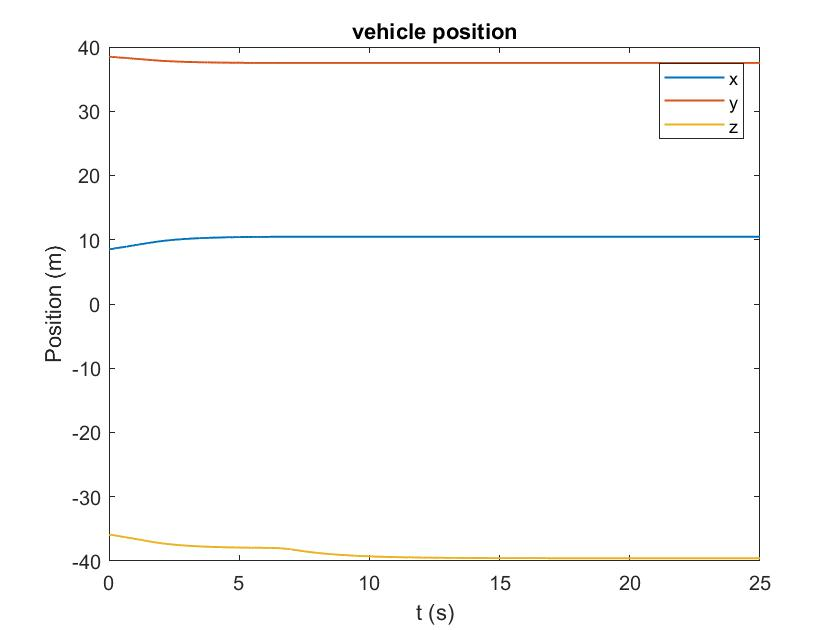
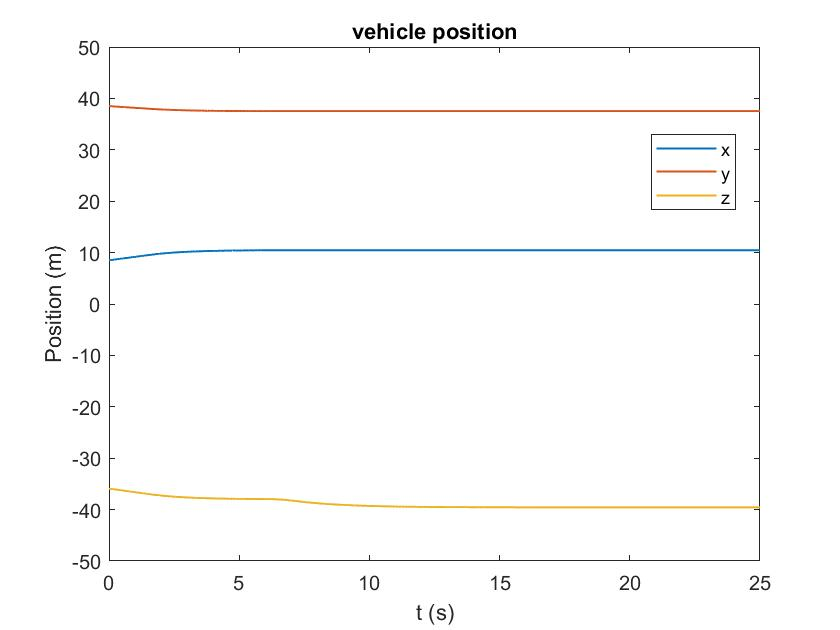
update altitutde saturate + plot 2B,2

diff --git a/esReport/es2B/PrintPlot.m b/esReport/es2B/PrintPlot.m
@@ -57,6 +57,7 @@ legend('x','y','z');
 title('vehicle position')
 xlabel('t (s)')
 ylabel('Position (m)')
+ylim([-50 50])
 
 figure(8);
 hplot = plot(plt.t, plt.a(10:11,:));
@@ -78,5 +79,13 @@ set(hplot, 'LineWidth', 1);
 legend('xdot', 'ydot','zdot');
 xlabel('t (s)')
 ylabel('velocity (m/2)')
+
+figure(10);
+hplot = plot(plt.t, plt.mission);
+set(hplot, 'LineWidth', 1);
+legend('mission');
+xlabel('t (s)')
+
+
 end
 

diff --git a/esReport/es2B/UpdateDataPlot.m b/esReport/es2B/UpdateDataPlot.m
@@ -1,4 +1,4 @@
-function [ plt ] = UpdateDataPlot( plt, uvms, t, loop )
+function [ plt ] = UpdateDataPlot( plt, uvms, t, loop, mission )
 
 % this function samples the variables contained in the structure uvms
 % and saves them in arrays inside the struct plt
@@ -32,4 +32,5 @@ plt.tooly(:,loop) = uvms.wTt(2,4);
 
 % altitutde
 plt.altitude(:,loop) = uvms.w_distance;
+plt.mission(:,loop) = mission.phase;
 end

diff --git a/esReport/es2/ComputeTaskReferences.m b/esReport/es2/ComputeTaskReferences.m
@@ -20,7 +20,7 @@ uvms.xdot.vehicleAtt(1:3,:) = Saturate(0.2 * w_vang, 0.2);
 threshold = 10;
 range = 0.5;
 %reference for altittude task 1 m
-uvms.xdot.vehicleAlt = 1 * ((threshold + range) - uvms.w_distance);
+uvms.xdot.vehicleAlt = Saturate(0.7 * ((threshold + range) - uvms.w_distance),0.7);
 
 %reference for landing action 
 uvms.xdot.vehicleAltLanding = Saturate(0.5 * (0 - uvms.w_distance), 0.5);

diff --git a/esReport/es2B/ComputeTaskReferences.m b/esReport/es2B/ComputeTaskReferences.m
@@ -20,7 +20,7 @@ uvms.xdot.vehicleAtt(1:3,:) = Saturate(0.2 * w_vang, 0.2);
 threshold = 1;
 range = 0.5;
 %reference for altittude task 1 m
-uvms.xdot.vehicleAlt = 1 * ((threshold + range) - uvms.w_distance);
+uvms.xdot.vehicleAlt = Saturate(0.7 * ((threshold + range) - uvms.w_distance),0.7);
 
 %reference for landing action 
 uvms.xdot.vehicleAltLanding = 0.5 * (0 - uvms.w_distance);

diff --git a/esReport/es2B/MainRobust.m b/esReport/es2B/MainRobust.m
@@ -115,7 +115,7 @@ for t = 0:deltat:end_time
     SendUdpPackets(uvms,wuRw,vRvu,uArm,uVehicle);
         
     % collect data for plots
-    plt = UpdateDataPlot(plt,uvms,t,loop);
+    plt = UpdateDataPlot(plt,uvms,t,loop,mission);
     loop = loop + 1;
    
     % add debug prints here
